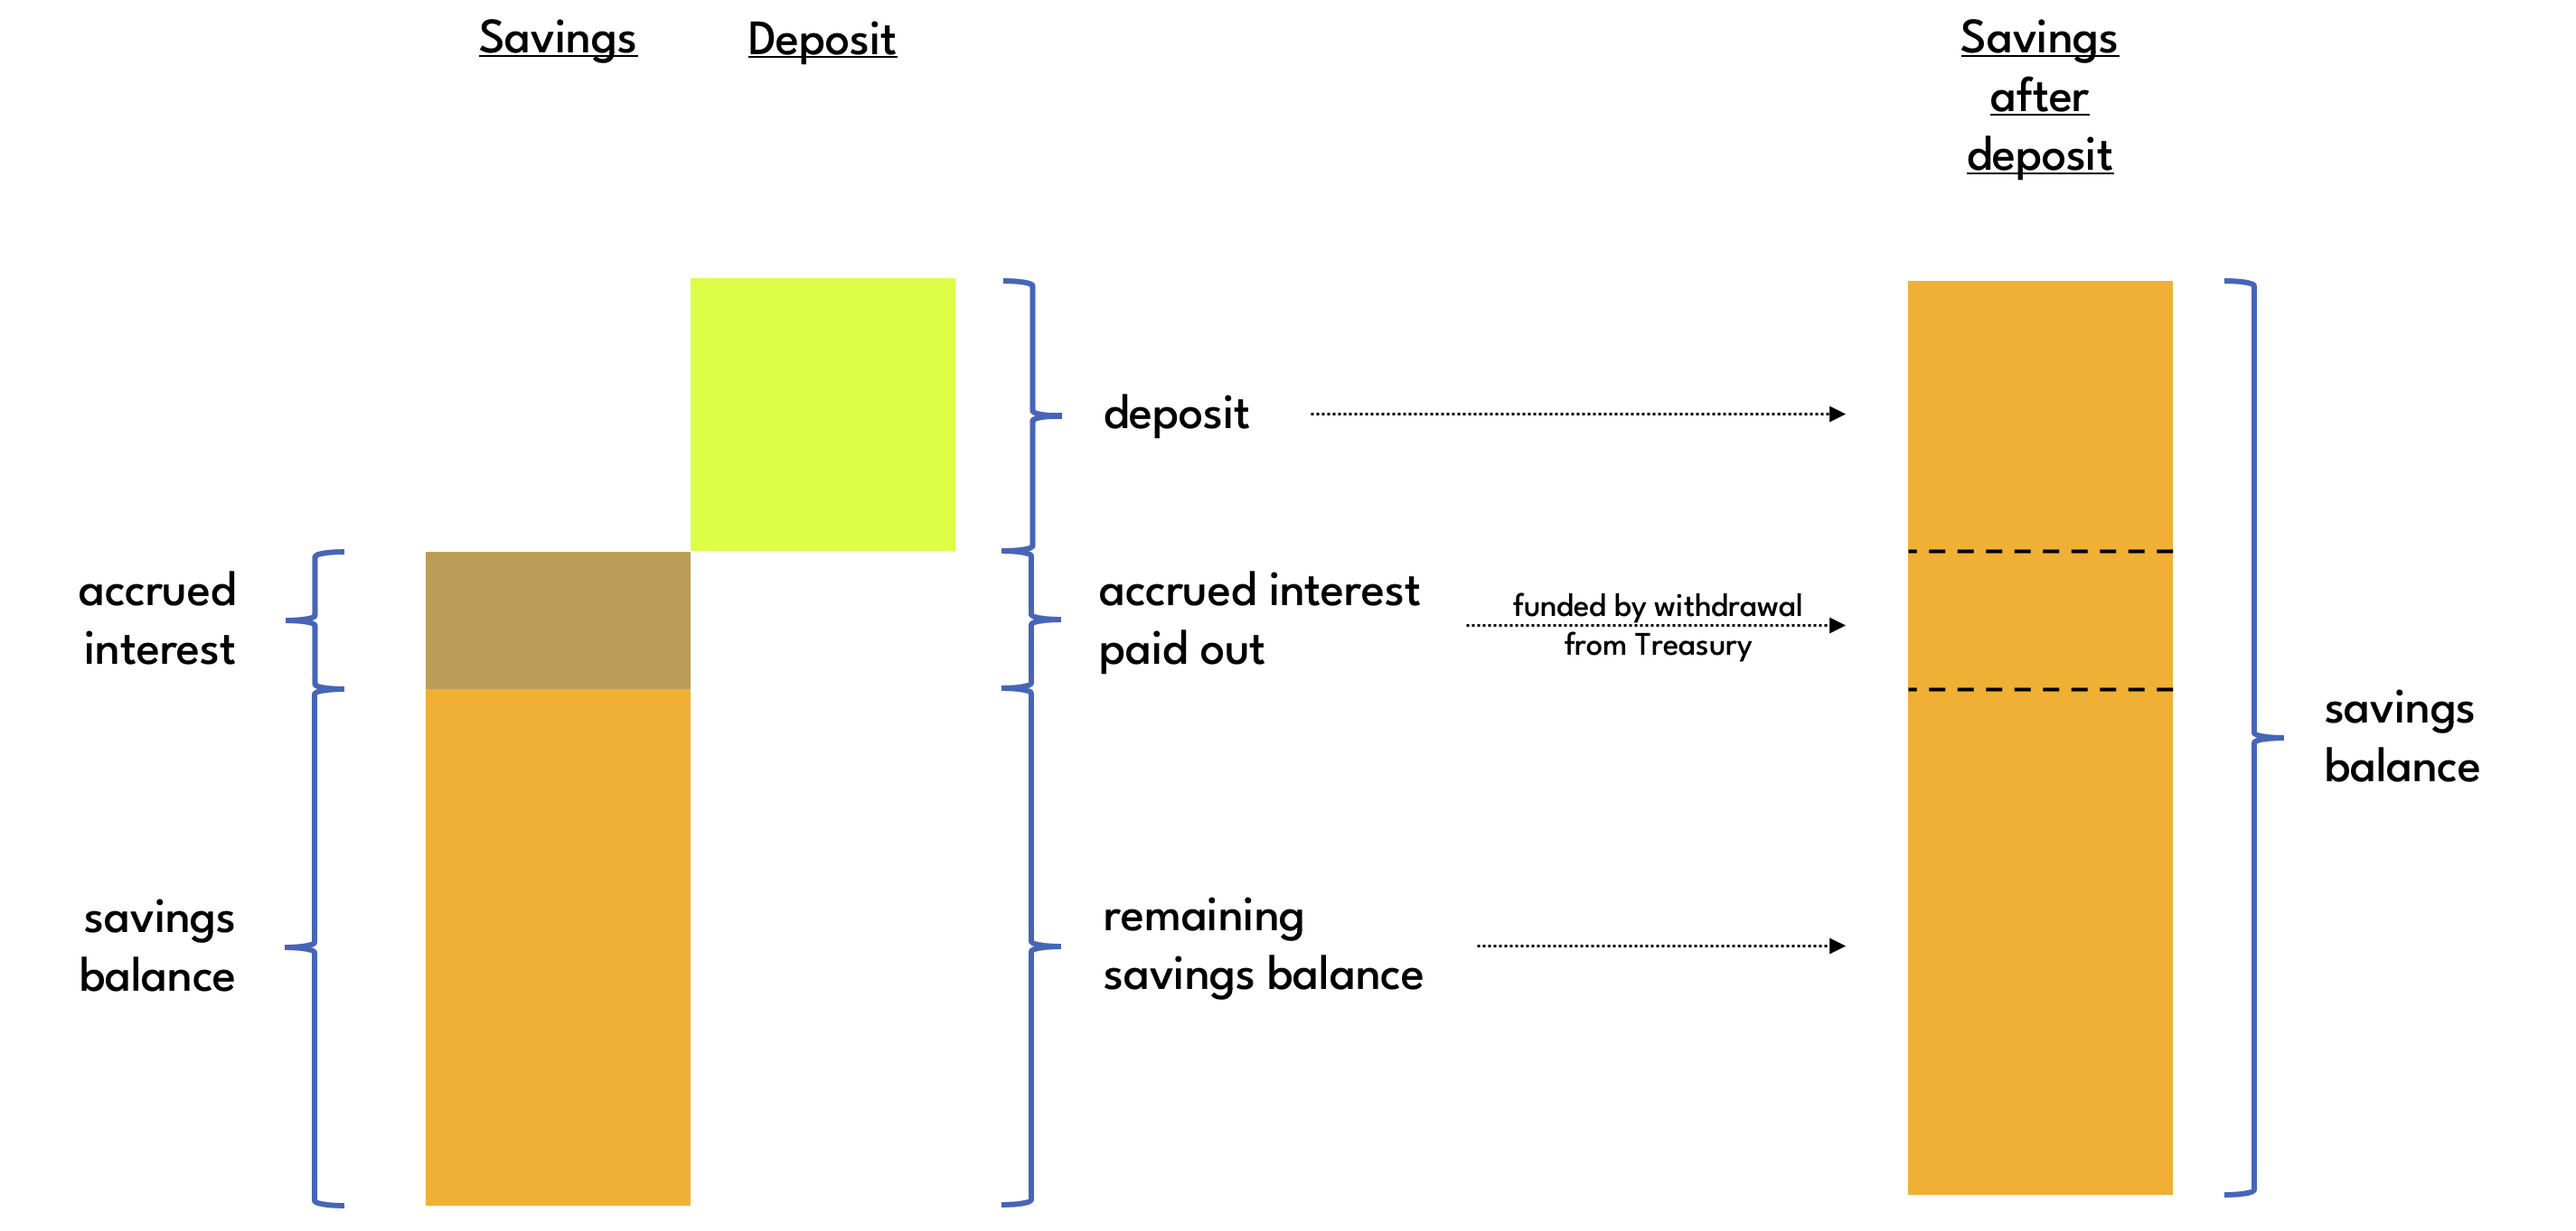
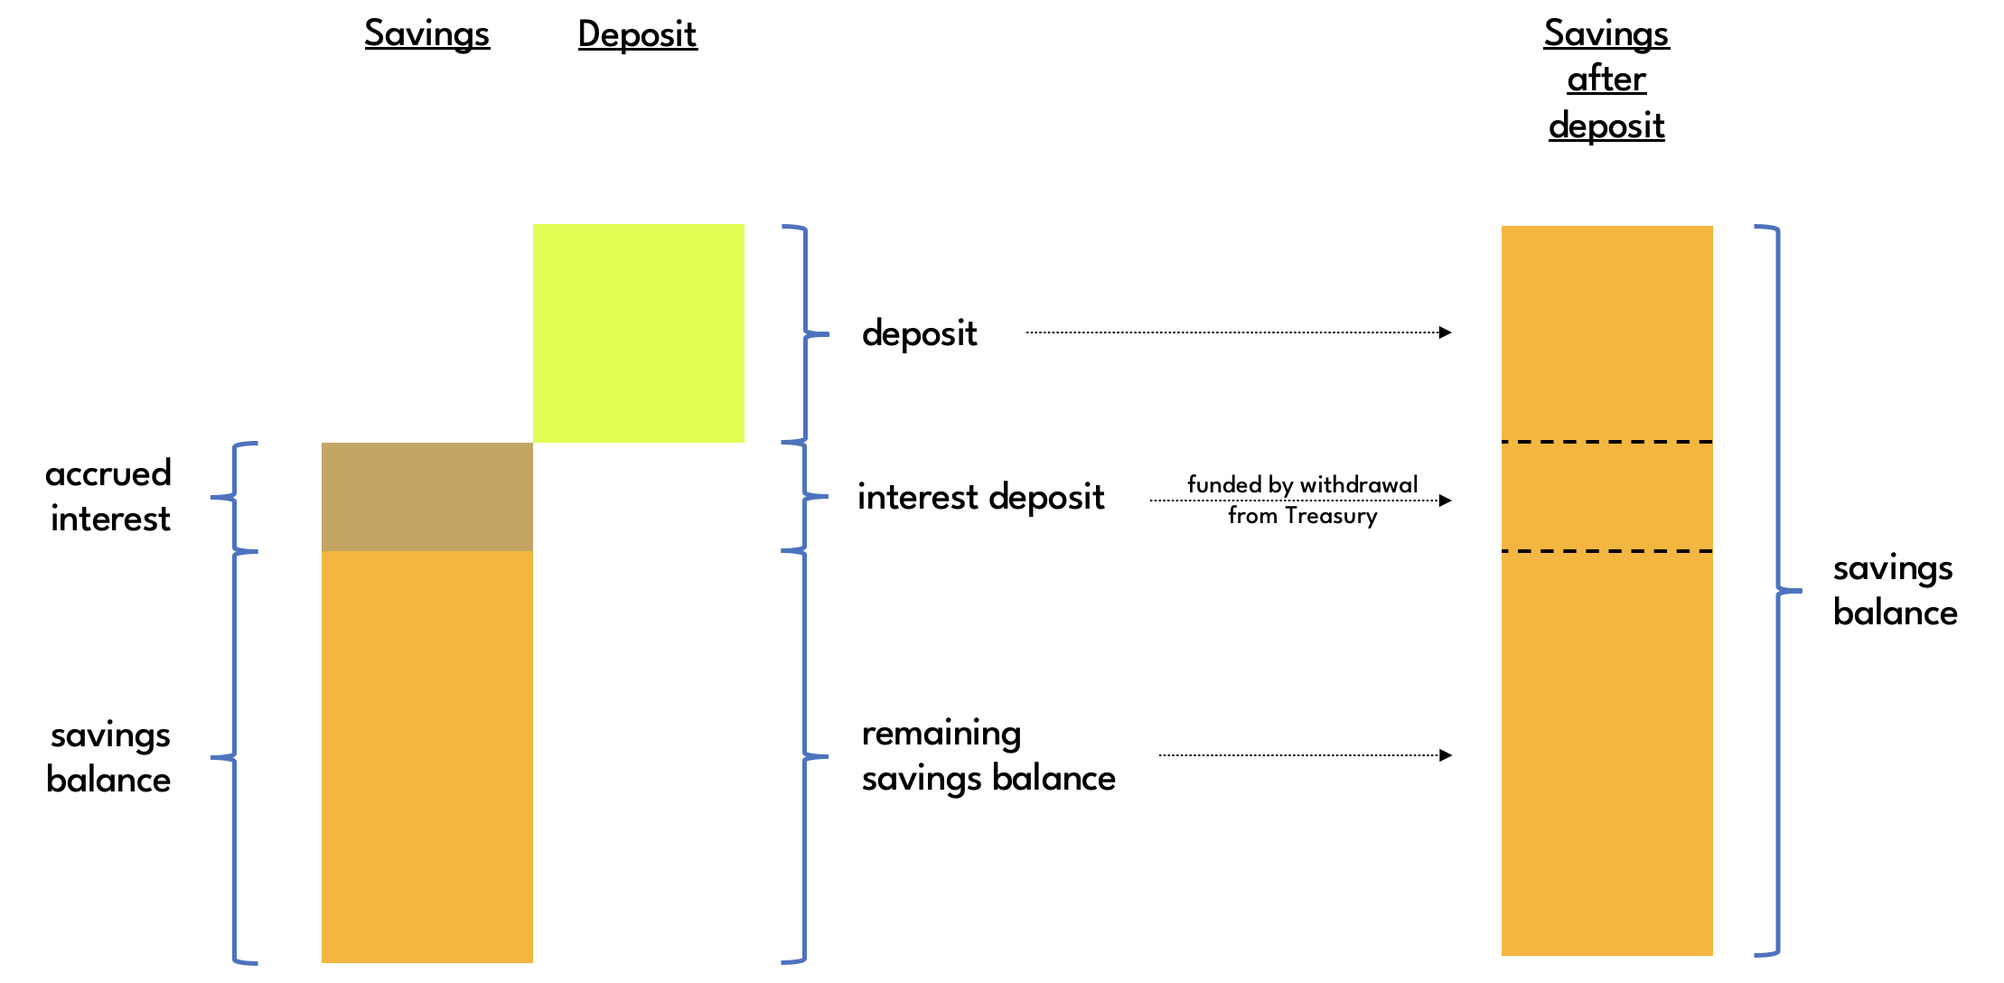
tidied up terminology around savings interest payments, withdrawals, and deposits

diff --git a/docs/technical-manual/savings-vaults.md b/docs/technical-manual/savings-vaults.md
@@ -59,27 +59,27 @@ Owner operations:
   * **deposit**: deposit BYC
   * **withdraw**: withdraw BYC
 
-Savings vault operations are part of the savings vault's main puzzle since deposit and withdrawal operations have the same implementation. Whether an operation on a savings vault is a deposit or withdrawal can be inferred from how it changes the savings balance and accrued interest of the vault and whether an interest withdrawal from Treasury was made.
+Savings vault operations are part of the savings vault's main puzzle since deposit and withdrawal operations have the same implementation. Whether an operation on a savings vault is a deposit or withdrawal can be inferred from how it changes the savings balance and accrued interest of the vault.
 
-Vault owners can receive accrued interest as part of both deposit and withdrawal operations. In case of a deposit, interest is paid to the savings vault. In case of a withdrawal, interest is paid to the savings vault or directly to the user's wallet. An interest payment to a savings vault is referred to as an **interest payout**, and a payment directly to a user's wallet is referred to as an **interest withdrawal**.
+Vault owners can receive accrued interest as part of both deposit and withdrawal operations. In case of a deposit, interest is paid to the savings vault. In case of a withdrawal, interest is paid to the savings vault or to the user's wallet. An interest payment to a savings vault is referred to as an **interest deposit**, whereas an interest payment directly to a user's wallet is referred to as an **interest withdrawal**.
 
-If interest is paid, it's always for the full accrued interest. The protocol obtains the funds for interest payments from the Treasury. The user must select one Treasury coin from which to make the withdrawal. In particular, this means that a user can only get paid interest if there is a Treasury coin with amount greater than the accrued interest.
+If interest is paid, it's always for the entire accrued interest. The protocol obtains the funds for interest payments from the Treasury. The user must select one Treasury coin from which to make the withdrawal. In particular, this means that a user can only get paid interest if there is a Treasury coin with amount at least as big as the accrued interest. When accessing the protocol via the app, a suitable Treasury coin is chosen automatically.
 
-Note that no interest payment can be made if accrued interest is less than the **Minimum Interest Withdrawal Amount**. This protects the protocol Treasury coins hogging attacks.
+An interest payment can only be made if accrued interest is less than the **Minimum Interest Withdrawal Amount**. This protects the protocol against Treasury coin hogging attacks.
 
-Both deposit and withdraw operations can be performed without getting paid any interest. This is important as it allows users to increase or decrease their savings balance without the need to spend a Treasury coin. This means that many more vaults can access their savings balance per block than would be possible otherwise. Although it is possible to spend Treasury coins repeatedly in the same block, the block limit still means that there's a maximum on the number vaults that can make a withdrawal, and this number is greater if no simultaneous Treasury coin spend is required.
+Both deposit and withdraw operations can be performed without an interest payment. This is important as it allows users to increase or decrease their savings balance without the need to spend a Treasury coin. This means that many more vaults can access their savings balance per block than would be possible otherwise. Although it is possible to spend Treasury coins repeatedly in the same block, the block limit still means that there's a maximum on the number vaults that can make a withdrawal, and this number is greater if no simultaneous Treasury coin spend is required.
 
 ### Deposit
 
-When depositing to a savings vault, the user needs to make a contribution spend to top up the vault's savings balance. An additional Treasury coin spend is optional depending on whether the depositor would like to have accrued paid out to them or not.
+When depositing to a savings vault, the user needs to make a contribution spend to top up the vault's savings balance. An additional Treasury coin spend is optional depending on whether the depositor would like to have accrued interest paid out to them or not.
 
 ![Savings vault deposit with interest](./../../static/img/Savings_deposit_coin_spends_diagram.png)
 
-The deposit amount is added to the savings balance. Accrued interest remains unchanged if no interest payment from Treasury is requested.
+The deposit amount is added to the savings balance. Accrued interest remains unchanged if no interest payment is requested.
 
 ![Savings vault deposit without interest payment](./../../static/img/Savings_deposit_without_interest_payment.png)
 
-Alternatively, it is possible to make a deposit and request an interest payment at the same time. As mentioned further above, when an interest payment is made, it covers the entire accrued interest, momentarily leaving the vault without any accrued interest.
+If an additional interest payment is requested, the entire accrued interest amount is withdrawn from Treasury and deposited in the savings vault, momentarily leaving the vault without any accrued interest.
 
 ![Savings vault deposit with interest payment](./../../static/img/Savings_deposit_with_interest_payment.png)
 
@@ -91,19 +91,23 @@ Alternatively, it is possible to make a deposit and request an interest payment 
 
 ### Withdraw
 
-When making a withdrawal from a savings vault, the user can choose to withdraw from their savings balance only or receive interest at the same time. If an interest payment is made, the user is free to decide how much of it to receive as standard BYC in their wallet and how much of it is getting paid to the vault, increasing the savings balance.
+On the protocol level, when making a withdrawal from a savings vault, the user can choose to withdraw from their savings balance only or to receive an interest payment at the same time. If an interest payment is requested, the user is free to decide how much of it to receive as standard BYC in their wallet as an interest withdrawal and how much of it gets paid to the savings vault as an interest deposit.
+
+If interest payment is requested, the entire accrued interest gets paid out. If accrued interest is less than the Minimum Interest Withdrawal Amount, then no interest payment can be made.
+
+Interest payments are made from Treasury. An interest payment is only possible if there is a Treasury coin whose amount is at least as big as the accrued interest.
 
 ![Savings vault withdrawal with interest](./../../static/img/Savings_withdrawal_coin_spends_diagram.png)
 
-If the user withdraws an amount less than the savings balance, the app will always withdraw the withdrawal amount from savings balance and not request an interest payment from Treasury.
+Although the savings vault puzzle gives the user flexibility over how interest is paid, the app currently does not. If the user withdraws an amount less than the savings balance, the app will always withdraw the entire amount from the savings balance and not request an interest payment from Treasury.
 
 ![Savings Interest withdrawal from balance only](./../../static/img/Savings_withdrawal_from_balance_only.png)
 
-On the protocol-level it would also be possible to receive an interest payout at the same time. This can lead to a situation in which despite a withdrawal being made from the vault, the savings balance actually increases, as shown in the diagram below.
+On the protocol-level it would also be possible to receive an interest payment at the same time. This can lead to a situation in which despite a withdrawal being made from the vault, the savings balance actually increases, as shown in the diagram below.
 
 ![Savings Interest withdrawal from balance with interest payment](./../../static/img/Savings_withdrawal_from_balance_with_interest_payment.png)
 
-If the user withdraws an amount greater than the savings balance, then an interest payment is required. This means that there must be Treasury coin available to be spent whose amount is at least as big as the accrued interest. Any accrued interest that isn't withdrawn remains in the vault as the new savings balance.
+If the user withdraws an amount greater than the savings balance, then an interest payment is required. Any accrued interest that isn't withdrawn remains in the vault as the new savings balance.
 
 ![Savings Interest withdrawal from balance and accrued interest](./../../static/img/Savings_withdrawal_from_balance_and_accrued_interest.png)
 
